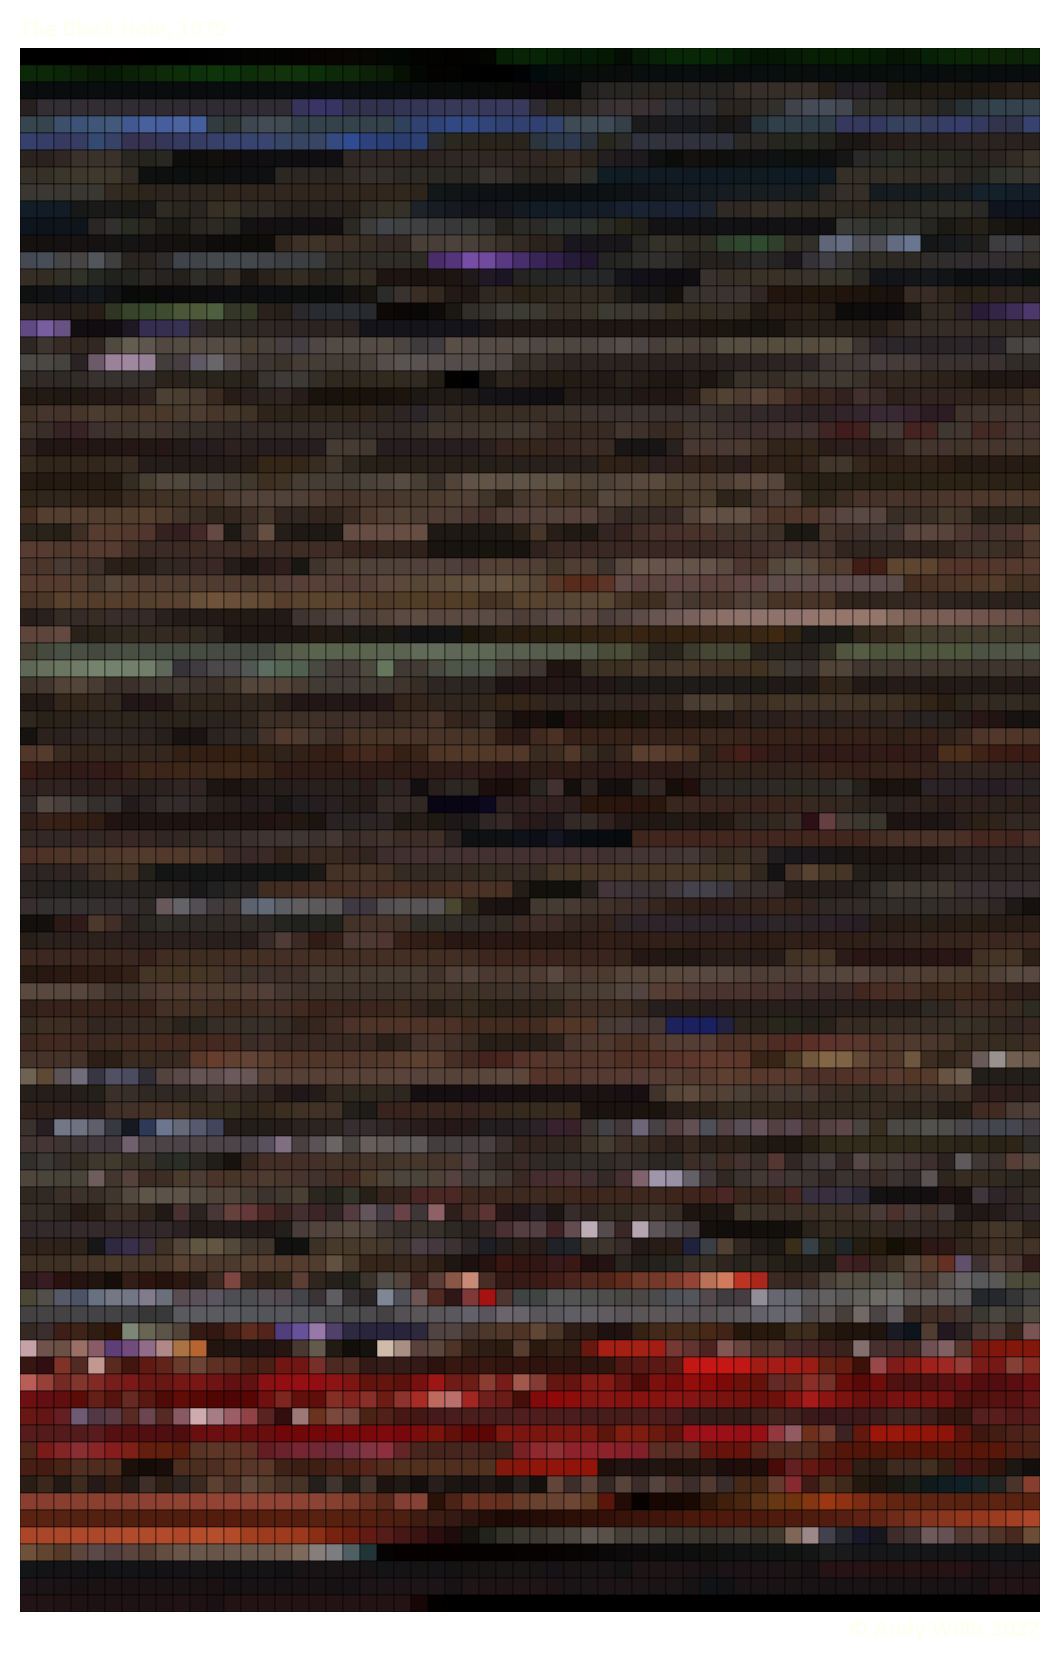
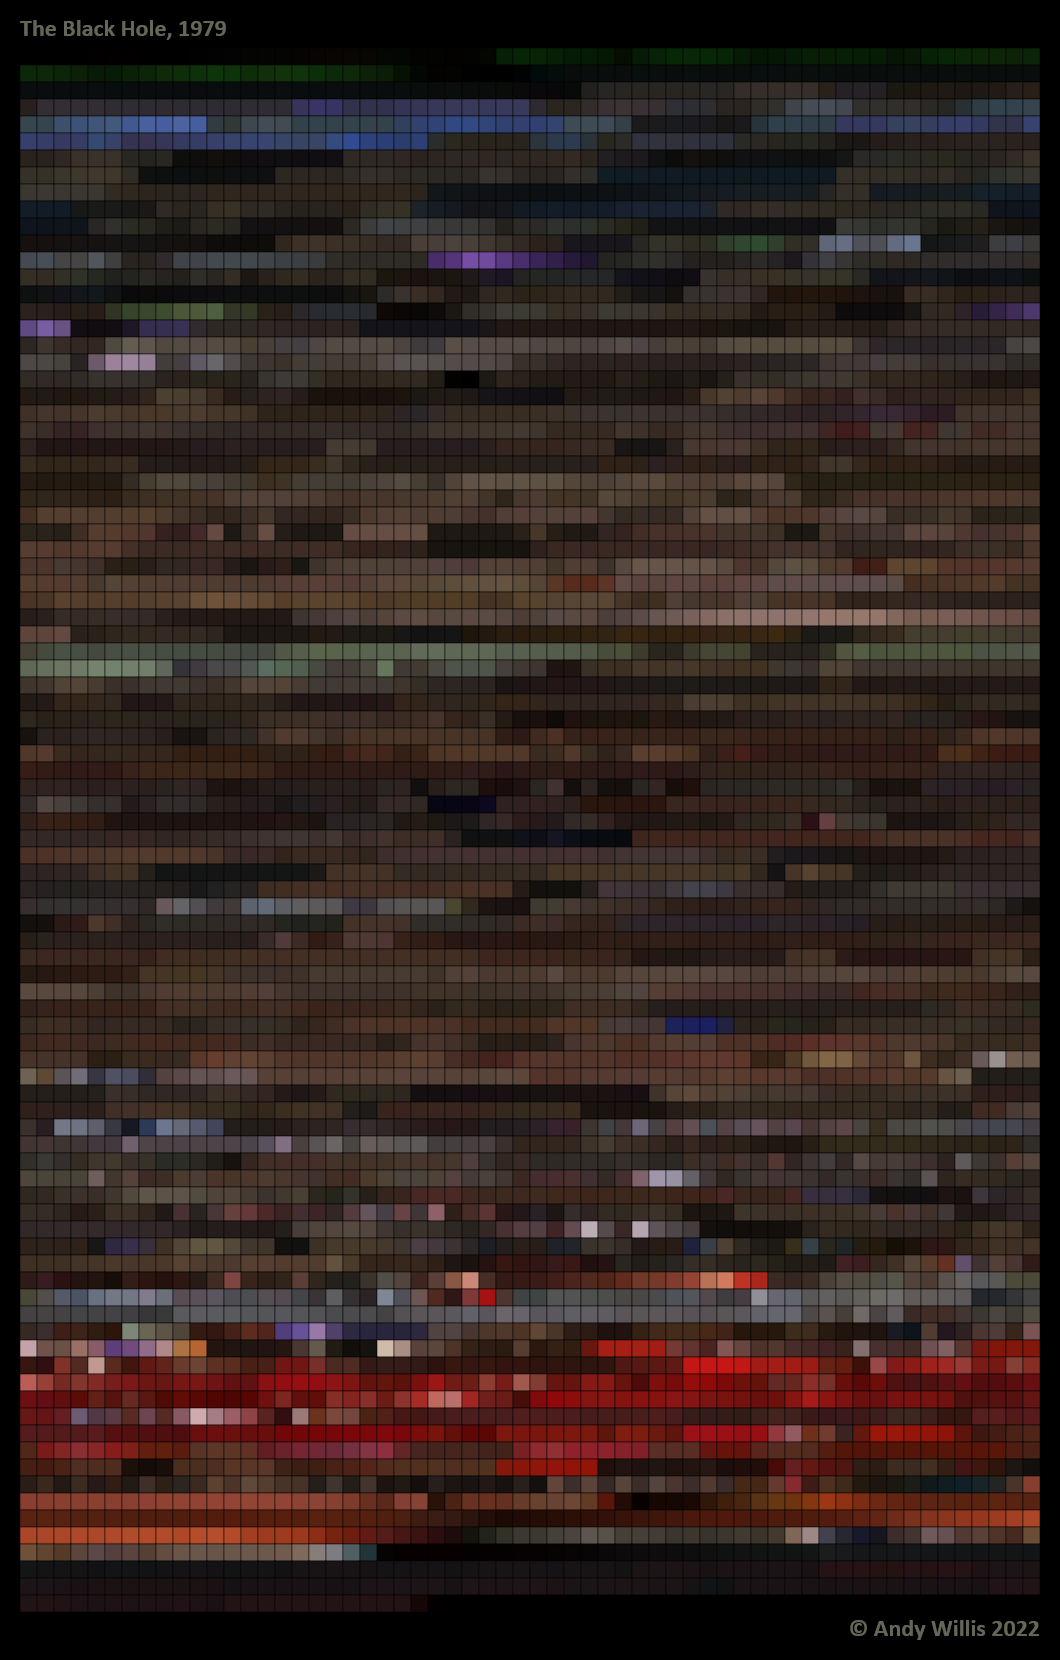
Better canvas

Changed region(s): [[0.0, 0.0, 1.0, 1.0]]

diff --git a/packages/client/src/components/Details/index.jsx b/packages/client/src/components/Details/index.jsx
@@ -68,6 +68,9 @@ function Details({ data, canvasRef }) {
     dest.height = canvas.height + (fontSize * 4);
 
     const ctx = dest.getContext('2d');
+    ctx.fillStyle = 'black';
+    ctx.fillRect(0, 0, dest.width, dest.height);
+
     ctx.drawImage(canvas, padding, fontSize * 2);
 
     ctx.font = `bold ${fontSize}px Calibri, sans-serif`;
